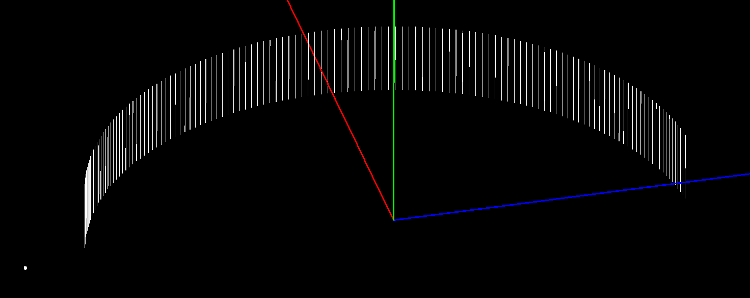
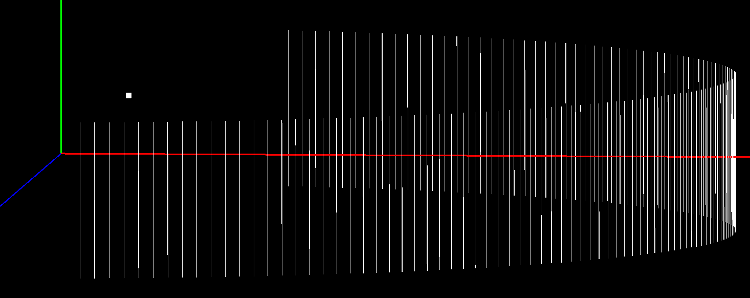
Updated D2B Instrument Description

diff --git a/Project-Management/ILL/Instrument_Definitions/D2B/D2B.md b/Project-Management/ILL/Instrument_Definitions/D2B/D2B.md
@@ -5,7 +5,7 @@ This definition is based on a Mantid instrument definition created a few years a
 
 ## Coordinate system
 
-The global coordinate system used is the Mantid-default right-handed system: `z` axis is in the incoming beam direction while `y` axis points up. Spherical coordinates are used in the normal convnetion, x = r sin &theta; cos &phi;, y = r sin &theta; sin &phi;, z = r cos &theta;.
+The global coordinate system used is the Mantid-default right-handed system: `z` axis is in the incoming beam direction while `y` axis points up. Spherical coordinates are used in the normal convention, x = r sin &theta; cos &phi;, y = r sin &theta; sin &phi;, z = r cos &theta;.
 
 ## Source
 
@@ -19,15 +19,28 @@ There is one monitor present, situated at `z = -1.594 m`.
 
 Sample is located at the origin of the global coordinate system, that is at `r = 0`.
 
-## Detector
+## Detector Tubes
+ * Number of pixels: 128
+ * Tube height: 300 mm
+ * Tube span: -150 mm (bottom of bottom pixel) -> 150 mm (top of top pixel) in vertical axis
+ * Distance between pixels/pixel height = 300 mm / 128 pixels = 2.34375 mm
+ * Pixel radius of cylinder: 1.296 m * sin(0.05&deg;) / 2 = 0.56549 mm
 
-Each detector tube is composed of 128 pixels. In terms of the pixel centres, the tubes start at -15 cm and go to 15 cm, so there is 30 cm between the top and bottom pixel centres. The pixels are evenly spaced with 2.362205 mm between pixel centres. Each pixel is treated as a cylinder, along the y-axis, with a radius of 1.27 mm and a height of 11.43 mm. The base of the cylidner is at -6.144 mm and the top of the cylidner at 5.290 mm. Hence between each pixel there is a large overlap (!).
+**Note:** The real tube has a diameter of 25.4 mm, but the collimator reduces the effective angular range of one detector to 0.05&deg;. This is used in Mantid, but care should be used when using algorithms that rely on the instrument geometry, to ensure this is the correct thing to use.
 
-There are 128 detector tubes are positioned at `r = 1.296 m` from the sample. The &theta; angle of the tubes in the default position goes from 165&deg; (tube 1) to 5&deg; (tube 128), but the position of the tube 1 is actually read from the NeXus or ASCII file. The angular spacing between tubes is 1.2598&deg;.
+## Detectors
+
+ * Number of detector tubes: 128
+ * Distance from sample: 1.296 m
+ * Angle between detectors: 1.25&deg;
+ * Default position in IDF: Tube 1 at 165&deg;, Tube 128 at 6.25&deg;
+  * Actual position of Tube 1 read from NeXus/ASCII file, making the above arbitrary
 
 ## Instrument view
 
 Below is the view of the instrument in Mantid. Blue is the z-axis in the direction of the incoming beam. Green is the y-axis point to top. Red is the x-axis of the right-handed coordinate system.
+
+Note that this image suffers from some artefacts due to the detector width, it is easier to see the instrument in Mantid itself.
 
 ![D2B][image-id]
 	
